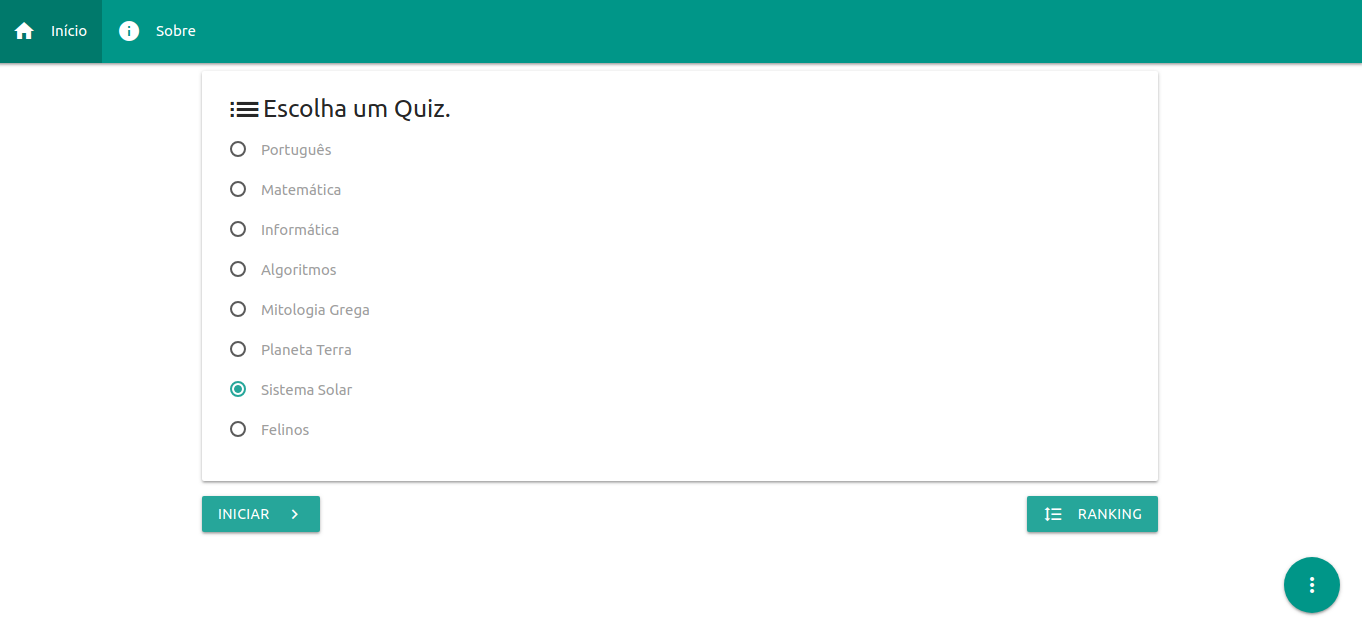
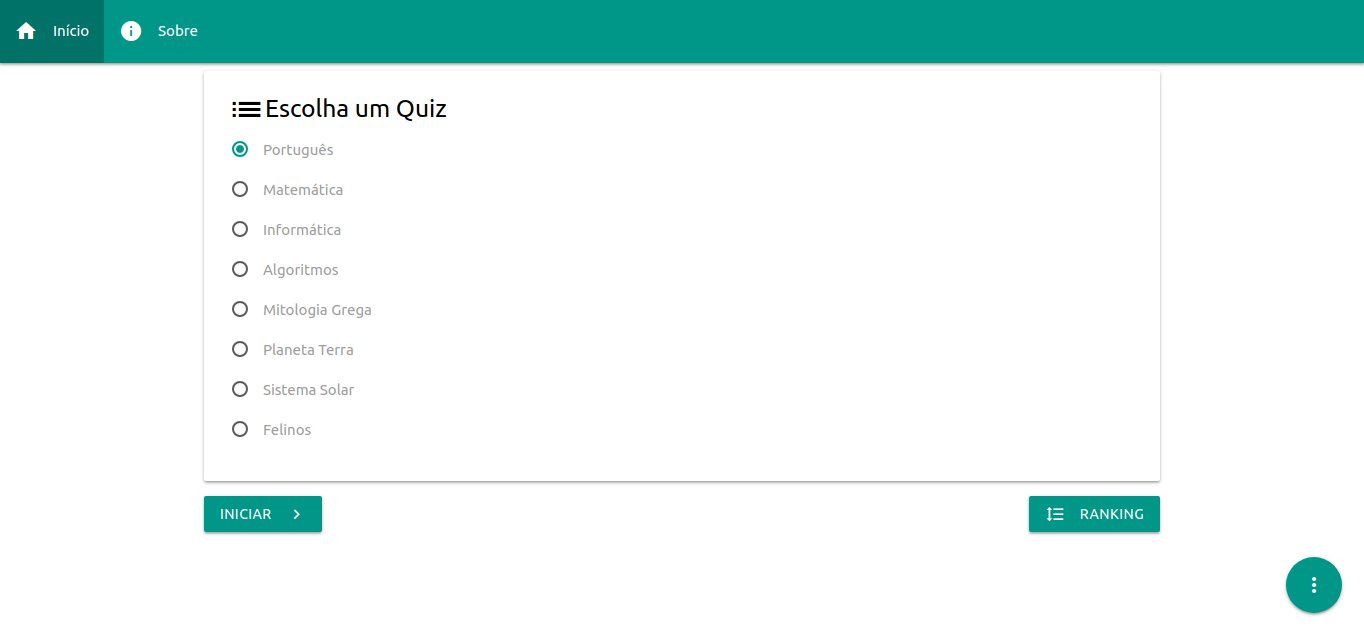
dark theme added

diff --git a/src/script.js b/src/script.js
@@ -16,7 +16,9 @@ const btnNext = document.querySelector('#next'),
   timeSave = document.querySelector('#timeSave'),
   textName = document.querySelector('#name'),
   types = document.querySelectorAll('[name=selectQuiz]'),
-  modal5 = document.querySelector('#modal5')
+  modal5 = document.querySelector('#modal5'),
+  switcherTheme = document.querySelector('#darktheme'),
+  root = document.querySelector(':root')
 
 let points = 0,
   currentQuestion = 0,
@@ -65,7 +67,7 @@ function createPagination() {
   htmlPagination = '<li class="disabled"><a><i class="material-icons">chevron_left</i></a></li>'
 
   for (let i = 0; i < questions[selectedType].length; i++)
-    htmlPagination += `<li class="${matches[i] === undefined ? '' : 'waves-effect waves-light'} ${currentQuestion === i ? 'active teal c-df no-border waves-effect waves-light' : `${matches[i] === undefined ? 'disabled' : matches[i] === 1 ? `active green c-df no-border ${i === questions[selectedType].length - 1 ? '' : 'brw'}` : `active red c-df no-border ${i === questions[selectedType].length - 1 ? '' : 'brw'}`}`}"><a>${i + 1}</a></li>`
+    htmlPagination += `<li class="${matches[i] === undefined ? '' : 'waves-effect waves-light'} ${currentQuestion === i ? 'active corFundo3 c-df no-border waves-effect waves-light' : `${matches[i] === undefined ? 'disabled' : matches[i] === 1 ? `active green c-df no-border ${i === questions[selectedType].length - 1 ? '' : 'brw'}` : `active red c-df no-border ${i === questions[selectedType].length - 1 ? '' : 'brw'}`}`}"><a>${i + 1}</a></li>`
 
   htmlPagination += '<li class="disabled"><a><i class="material-icons">chevron_right</i></a></li>'
 
@@ -161,7 +163,7 @@ function next() {
       clearInterval(timeInterval)
       currentAnswers.forEach(answer => { answer.disabled = true })
 
-      btnNext.className = 'btn waves-effect waves-light hide'
+      btnNext.className = 'hide'
       btnGiveUp.className = 'hide'
       btnShowAnswers.className = 'btn waves-effect waves-light right modal-trigger'
       btnSave.className = 'btn waves-effect waves-light modal-trigger green'
@@ -248,7 +250,7 @@ function renderSavedItems() {
 
   let html = '', htmlParent = '', htmlItem, newItems
   const items = localStorage.getItem('registeredItems'),
-    defaultHtmlItem = '<table class="responsive-table highlight"><thead><tr><th>Nome</th><th>Acertos</th><th>Tempo</th></tr></thead><tbody>'
+    defaultHtmlItem = '<table class="responsive-table"><thead><tr><th>Nome</th><th>Acertos</th><th>Tempo</th></tr></thead><tbody>'
 
   if (items !== null)
     newItems = JSON.parse(items).items
@@ -286,9 +288,43 @@ function renderSavedItems() {
 }
 
 function clearSavedItems() {
-  localStorage.clear()
+  localStorage.removeItem('registeredItems')
   renderSavedItems()
 }
+
+function darkTheme() {
+  localStorage.setItem('darktheme', 'true')
+  root.style.setProperty('--corFundo', '#242b38')
+  root.style.setProperty('--corFundo2', '#2a3342')
+  root.style.setProperty('--corFundoScroll', '#2a3342')
+  root.style.setProperty('--corScroll', '#2962ff')
+  root.style.setProperty('--corScrollHover', '#0b4cff')
+  root.style.setProperty('--corSwitcher', '#2962ff')
+  root.style.setProperty('--corSwitcherBall', '#0b4cff')
+  root.style.setProperty('--corFundo3', '#2962ff')
+  root.style.setProperty('--corFundoActive', '#0b4cff')
+  root.style.setProperty('--corTexto', 'white')
+}
+
+function lightTheme() {
+  localStorage.removeItem('darktheme')
+  root.style.setProperty('--corFundo', 'white')
+  root.style.setProperty('--corFundo2', 'white')
+  root.style.setProperty('--corFundoScroll', '#ededed')
+  root.style.setProperty('--corScroll', '#929292')
+  root.style.setProperty('--corScrollHover', 'grey')
+  root.style.setProperty('--corSwitcher', '#9e9e9e')
+  root.style.setProperty('--corSwitcherBall', '#f1f1f1')
+  root.style.setProperty('--corFundo3', '#009688')
+  root.style.setProperty('--corFundoActive', '#007267')
+  root.style.setProperty('--corTexto', 'black')
+}
+
+if (localStorage.getItem('darktheme') === 'true') {
+  darkTheme()
+  switcherTheme.checked = true
+}
+else lightTheme()
 
 window.addEventListener('DOMContentLoaded', function() {
   M.Sidenav.init(document.querySelectorAll('.sidenav'))
@@ -318,6 +354,6 @@ window.onload = () => {
   btnFinish.onclick = stop
 
   document.querySelector('#preloader').className = 'hide'
-  document.querySelector('#nav').className = 'teal'
+  document.querySelector('#nav').className = ''
   document.querySelector('#container').className = 'container'
 }

diff --git a/index.html b/index.html
@@ -57,25 +57,25 @@
       </div>
     </div>
 
-    <nav id="nav" class="teal hide">
+    <nav id="nav" class="hide">
       <div class="nav-wrapper">
         <a data-target="slide-out" class="sidenav-trigger right c-pt"><i class="material-icons">menu</i></a>
 
         <ul id="nav-mobile" class="hide-on-med-and-down">
-          <li><a title="Início" href="./" class="teal darken-2 us-none">Início<i class="material-icons left">home</i></a></li>
+          <li><a title="Início" href="./" class="corFundoActive us-none">Início<i class="material-icons left">home</i></a></li>
           <li><a title="Sobre" href="sobre/" class="us-none">Sobre<i class="material-icons left">info</i></a></li>
         </ul>
       </div>
     </nav>
 
     <ul id="slide-out" class="sidenav">
-      <li><a href="./" class="btn waves-effect waves-light teal darken-2">Início</a></li>
+      <li><a href="./" class="btn waves-effect waves-light corFundoActive">Início</a></li>
       <li><a href="sobre/" class="btn waves-effect waves-light">Sobre</a></li>
     </ul>
 
-    <section id="container" class="container hide">
+    <section id="container" class="hide">
       <section id="selectQuiz" class="card-panel">
-        <h5 style="margin:-15px 0 0 0"><i class="material-icons" style="top:11px;font-size:37px">list</i>Escolha um Quiz.</h5>
+        <h5 style="margin:-15px 0 0 0" class="corTexto"><i class="material-icons" style="top:11px;font-size:37px">list</i>Escolha um Quiz</h5>
         <p>
           <label>
             <input class="with-gap" name="selectQuiz" type="radio" data-text="Português" checked />
@@ -133,10 +133,11 @@
         </p>
 
         <div class="fixed-action-btn">
-          <a class="btn-floating btn-large teal waves-effect waves-light" style="-webkit-user-select:none"><i class="material-icons">more_vert</i></a>
+          <a class="btn-floating btn-large waves-effect waves-light" style="-webkit-user-select:none"><i class="material-icons">more_vert</i></a>
           <ul>
             <li><a class="btn-floating modal-trigger waves-effect waves-light red" data-target="modal7" title="Limpar Ranking"><i class="material-icons">clear</i></a></li>
-            <li><a class="btn-floating waves-effect waves-light teal" href="https://github.com/LucasNaja/quizzes" target="_target" rel="noopener noreferrer" title="Repositório no GitHub"><i class="material-icons">code</i></a></li>
+            <li><a class="btn-floating modal-trigger waves-effect waves-light" data-target="modal8" title="Mudar Tema"><i class="material-icons">invert_colors</i></a></li>
+            <li><a class="btn-floating waves-effect waves-light" href="https://github.com/LucasNaja/quizzes" target="_target" rel="noopener noreferrer" title="Repositório no GitHub"><i class="material-icons">code</i></a></li>
           </ul>
         </div>
       </section>
@@ -239,9 +240,29 @@
         <p>Você tem certeza que deseja limpar o Ranking?</p>
       </div>
 
+      <div class="divider"></div>
       <div class="modal-footer">
         <button title="Cancelar" class="modal-close waves-effect waves-light btn">Cancelar</button>
         <button title="Limpar Ranking" class="modal-close waves-effect waves-light btn red" onclick="clearSavedItems()">Limpar <i class="material-icons right">clear</i></button>
+      </div>
+    </section>
+
+    <section id="modal8" class="modal">
+      <div class="modal-content">
+        <h4><i class="material-icons left" style="top:6px;margin:0 5px 0 0">invert_colors</i>Mudar Tema</h4>
+
+        <div class="switch">
+          <label>
+            <input id="darktheme" type="checkbox" onchange="if (this.checked) darkTheme(); else lightTheme()">
+            <span class="lever"></span>
+            Tema Dark
+          </label>
+        </div>
+      </div>
+
+      <div class="divider"></div>
+      <div class="modal-footer">
+        <button title="Cancelar" class="modal-close waves-effect waves-light btn">Fechar</button>
       </div>
     </section>
 

diff --git a/sobre/index.html b/sobre/index.html
@@ -47,23 +47,33 @@
   </head>
 
   <body>
-    <nav class="teal">
+    <div id="preloader">
+      <div class="preloader-wrapper big active">
+        <div class="spinner-layer spinner-blue-only">
+          <div class="circle-clipper left"><div class="circle"></div></div>
+          <div class="gap-patch"><div class="circle"></div></div>
+          <div class="circle-clipper right"><div class="circle"></div></div>
+        </div>
+      </div>
+    </div>
+
+    <nav id="nav" class="hide">
       <div class="nav-wrapper">
         <a data-target="slide-out" class="sidenav-trigger right c-pt"><i class="material-icons">menu</i></a>
 
         <ul id="nav-mobile" class="hide-on-med-and-down">
           <li><a title="Início" href="../" class="us-none">Início<i class="material-icons left">home</i></a></li>
-          <li><a title="Sobre" class="teal darken-2 us-none" href="./">Sobre<i class="material-icons left">info</i></a></li>
+          <li><a title="Sobre" class="corFundoActive us-none" href="./">Sobre<i class="material-icons left">info</i></a></li>
         </ul>
       </div>
     </nav>
 
     <ul id="slide-out" class="sidenav">
       <li><a href="../" class="btn waves-effect waves-light">Início</a></li>
-      <li><a href="./" class="btn waves-effect waves-light teal darken-2">Sobre</a></li>
+      <li><a href="./" class="btn waves-effect waves-light corFundoActive">Sobre</a></li>
     </ul>
 
-    <section class="container">
+    <section id="container" class="hide">
       <section class="card-panel">
         <h4 style="margin:0 0 10px 0">Agradecimentos</h4>
         <div class="divider"></div>
@@ -83,18 +93,18 @@
             </div>
 
             <div class="card-action">
-              <a class="blue-text text-darken-3" href="https://lucasnaja.github.io/portfolio/" target="_blank" rel="noopener noreferrer">Portfólio</a>
+              <a class="blue-text text-accent-4" href="https://lucasnaja.github.io/portfolio/" target="_blank" rel="noopener noreferrer">Portfólio</a>
             </div>
           </div>
         </div>
 
         <h6>Outros Projetos:</h6>
 
-        <a href="https://lucasnaja.github.io/deck-royale" class="btn-flat blue-text text-darken-3 d-block">Deck Royale</a>
-        <a href="https://lucasnaja.github.io/password-generate" class="btn-flat blue-text text-darken-3 d-block">Gerador de Senha</a>
-        <a href="https://lucasnaja.github.io/year-progress" class="btn-flat blue-text text-darken-3 d-block">Progresso do Ano</a>
-        <a href="https://lucasnaja.github.io/tic-tac-toe" class="btn-flat blue-text text-darken-3 d-block">Jogo da Velha</a>
-        <a href="https://lucasnaja.github.io/coffee-express" class="btn-flat blue-text text-darken-3 d-block">Coffee Express</a>
+        <a href="https://lucasnaja.github.io/deck-royale" class="btn-flat blue-text text-accent-4 d-block">Deck Royale</a>
+        <a href="https://lucasnaja.github.io/password-generate" class="btn-flat blue-text text-accent-4 d-block">Gerador de Senha</a>
+        <a href="https://lucasnaja.github.io/year-progress" class="btn-flat blue-text text-accent-4 d-block">Progresso do Ano</a>
+        <a href="https://lucasnaja.github.io/tic-tac-toe" class="btn-flat blue-text text-accent-4 d-block">Jogo da Velha</a>
+        <a href="https://lucasnaja.github.io/coffee-express" class="btn-flat blue-text text-accent-4 d-block">Coffee Express</a>
       </section>
     </section>
 

diff --git a/src/style.css b/src/style.css
@@ -1,6 +1,40 @@
+html, body, .card-panel, .modal, .modal-footer, nav, .lever, .lever:after, .btn {
+  transition: background-color .5s !important;
+  -webkit-transition: background-color .5s !important
+}
+
+.modal, .card-panel { transition: color 1s !important }
+
+.corFundo3 { background-color: var(--corFundo3) !important }
+.corTexto { color: var(--corTexto) }
+
+.modal-footer { background-color: var(--corFundo) !important }
+.btn, .btn:focus, .btn-floating, nav { background-color: var(--corFundo3) }
+.btn:hover, .btn-floating:hover, .corFundoActive { background-color: var(--corFundoActive) }
+a.btn:hover { background-color: var(--corFundoActive) !important }
+.card-panel, .sidenav, .modal { background-color: var(--corFundo2) }
+.lever { background-color: var(--corSwitcher) !important }
+.lever:after { background-color: var(--corSwitcherBall) !important }
+
+.input-field input[type=text]:focus + label { color: var(--corFundo3) !important }
+.input-field input[type=text]:focus {
+  border-bottom: 1px solid var(--corFundo3) !important;
+  box-shadow: 0 1px 0 0 var(--corFundo3) !important
+}
+.input-field input[type=text] { color: var(--corTexto) } 
+
+[type="radio"]:checked + span:after,
+[type="radio"].with-gap:checked + span:before,
+[type="radio"].with-gap:checked + span:after { border: 2px solid var(--corFundo3) }
+
+[type="radio"]:checked + span:after,
+[type="radio"].with-gap:checked + span:after { background-color: var(--corFundo3) }
+ 
 html, body {
   min-width: 320px;
-  overflow-x: hidden
+  overflow-x: hidden;
+  color: var(--corTexto);
+  background-color: var(--corFundo)
 }
 
 #btnStart {
@@ -37,20 +71,21 @@ html, body {
   position: relative
 }
 
-.tabs .tab a.active { color: darkcyan !important }
+.tabs { background-color: var(--corFundo) }
+.tabs .tab a.active { color: var(--corFundoActive) !important }
 .tabs .tab a {
-  color: #63bdb5;
+  color: var(--corFundo3);
   -webkit-user-select: none
 }
 .tabs .tab a:focus { background-color: transparent }
-.tabs .tab a:hover { color: darkcyan }
+.tabs .tab a:hover { color: var(--corFundoActive) }
 
 .tabs .tab a:focus.active {
-  color: darkcyan;
+  color: var(--corFundo3);
   background-color: transparent
 }
 
-.tabs .indicator { background-color: #63bdb5 }
+.tabs .indicator { background-color: var(--corFundo3) }
 
 .c-df { cursor: default }
 .c-pt { cursor: pointer }
@@ -88,13 +123,8 @@ html, body {
     width: 4px
   }
 
-  ::-webkit-scrollbar-thumb {
-    border-radius: 2px;
-    background-color: rgb(146, 146, 146)
-  }
+  ::-webkit-scrollbar-thumb { background-color: var(--corScroll) }
 
-  ::-webkit-scrollbar-thumb:hover { background-color: grey }
-  ::-webkit-scrollbar-thumb:active { background-color: #666 }
-
-  ::-webkit-scrollbar-track { background-color: rgb(237, 237, 237) }
+  ::-webkit-scrollbar-thumb:hover { background-color: var(--corScrollHover) }
+  ::-webkit-scrollbar-track { background-color: var(--corFundoScroll) }
 }

diff --git a/sobre/src/script.js b/sobre/src/script.js
@@ -1,5 +1,40 @@
+const root = document.querySelector(':root')
+
 M.Sidenav.init(document.querySelectorAll('.sidenav'));
 M.Materialbox.init(document.querySelectorAll('.materialboxed'));
 
 if (innerWidth >= 1024)
   document.querySelector('#card').className = 'card horizontal'
+
+function darkTheme() {
+  localStorage.setItem('darktheme', 'true')
+  root.style.setProperty('--corFundo', '#242b38')
+  root.style.setProperty('--corFundo2', '#2a3342')
+  root.style.setProperty('--corFundoScroll', '#2a3342')
+  root.style.setProperty('--corScroll', '#2962ff')
+  root.style.setProperty('--corScrollHover', '#0b4cff')
+  root.style.setProperty('--corFundo3', '#2962ff')
+  root.style.setProperty('--corFundoActive', '#0b4cff')
+  root.style.setProperty('--corTexto', 'white')
+}
+
+function lightTheme() {
+  localStorage.removeItem('darktheme')
+  root.style.setProperty('--corFundo', 'white')
+  root.style.setProperty('--corFundo2', 'white')
+  root.style.setProperty('--corFundoScroll', '#ededed')
+  root.style.setProperty('--corScroll', '#929292')
+  root.style.setProperty('--corScrollHover', 'grey')
+  root.style.setProperty('--corFundo3', '#009688')
+  root.style.setProperty('--corFundoActive', '#007267')
+  root.style.setProperty('--corTexto', 'black')
+}
+if (localStorage.getItem('darktheme') === 'true')
+  darkTheme()
+else lightTheme()
+
+window.onload = () => {
+  document.querySelector('#preloader').className = 'hide'
+  document.querySelector('#nav').className = ''
+  document.querySelector('#container').className = 'container'
+}

diff --git a/sobre/src/style.css b/sobre/src/style.css
@@ -1,3 +1,33 @@
+html, body {
+  color: var(--corTexto);
+  background-color: var(--corFundo)
+}
+
+#preloader {
+  left: 50%;
+  top: 50%;
+  transform: translate(-50%, -50%);
+  position: absolute
+}
+
 .d-block { display: block }
 .c-pt { cursor: pointer }
 .us-none { -webkit-user-select: none }
+
+.card-action { background-color: var(--corFundo) !important }
+.btn, .btn:focus, nav { background-color: var(--corFundo3) }
+.btn:hover, .corFundoActive { background-color: var(--corFundoActive) }
+a.btn:hover { background-color: var(--corFundoActive) !important }
+.card-panel, .card-stacked, .sidenav { background-color: var(--corFundo2) }
+
+@media (min-width: 1024px) {
+  ::-webkit-scrollbar {
+    height: 6px;
+    width: 4px
+  }
+
+  ::-webkit-scrollbar-thumb { background-color: var(--corScroll) }
+
+  ::-webkit-scrollbar-thumb:hover { background-color: var(--corScrollHover) }
+  ::-webkit-scrollbar-track { background-color: var(--corFundoScroll) }
+}
